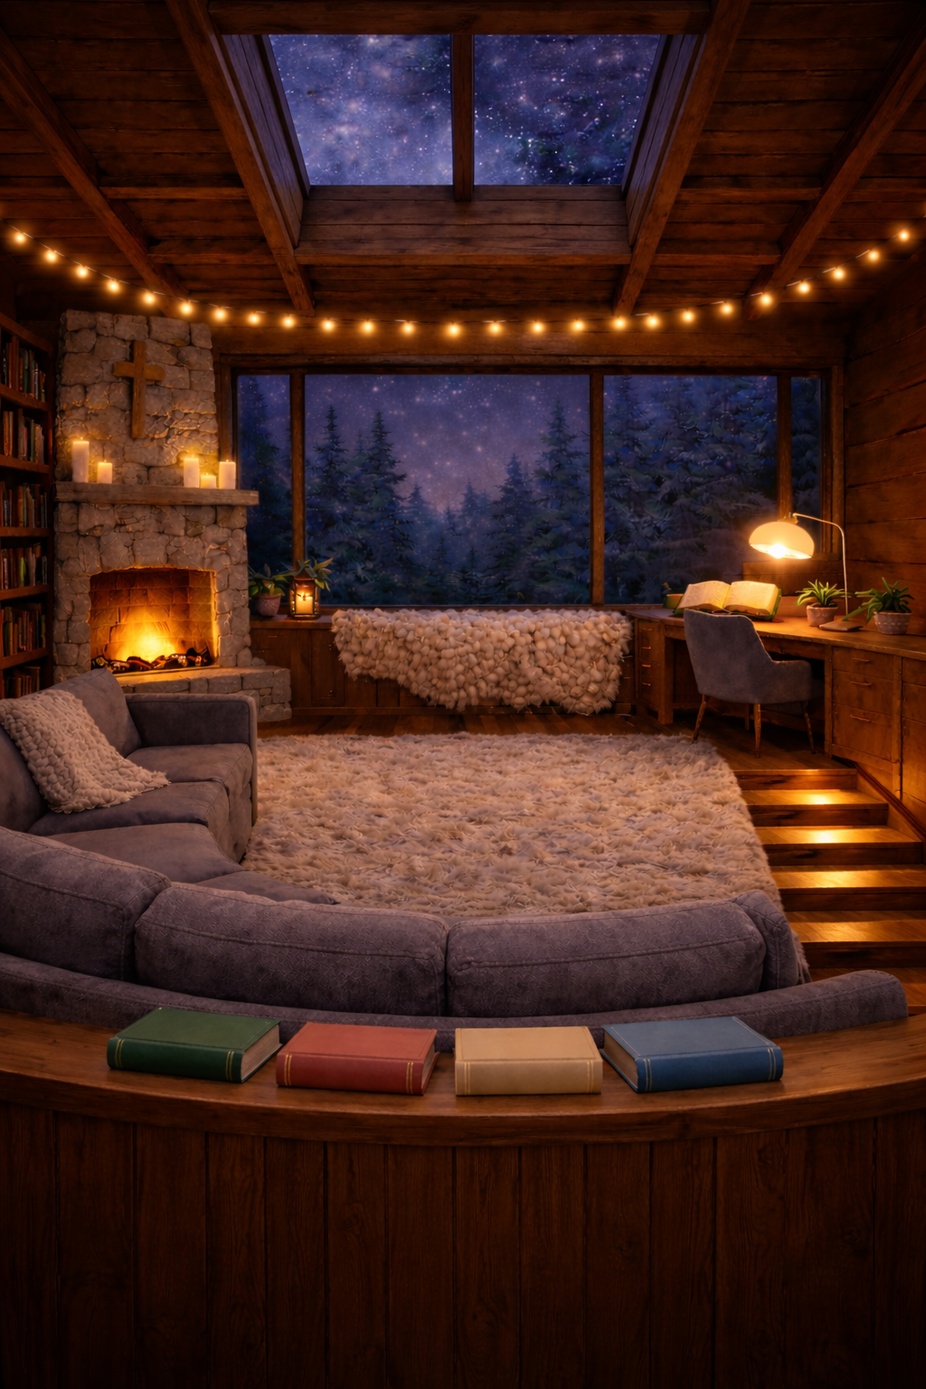
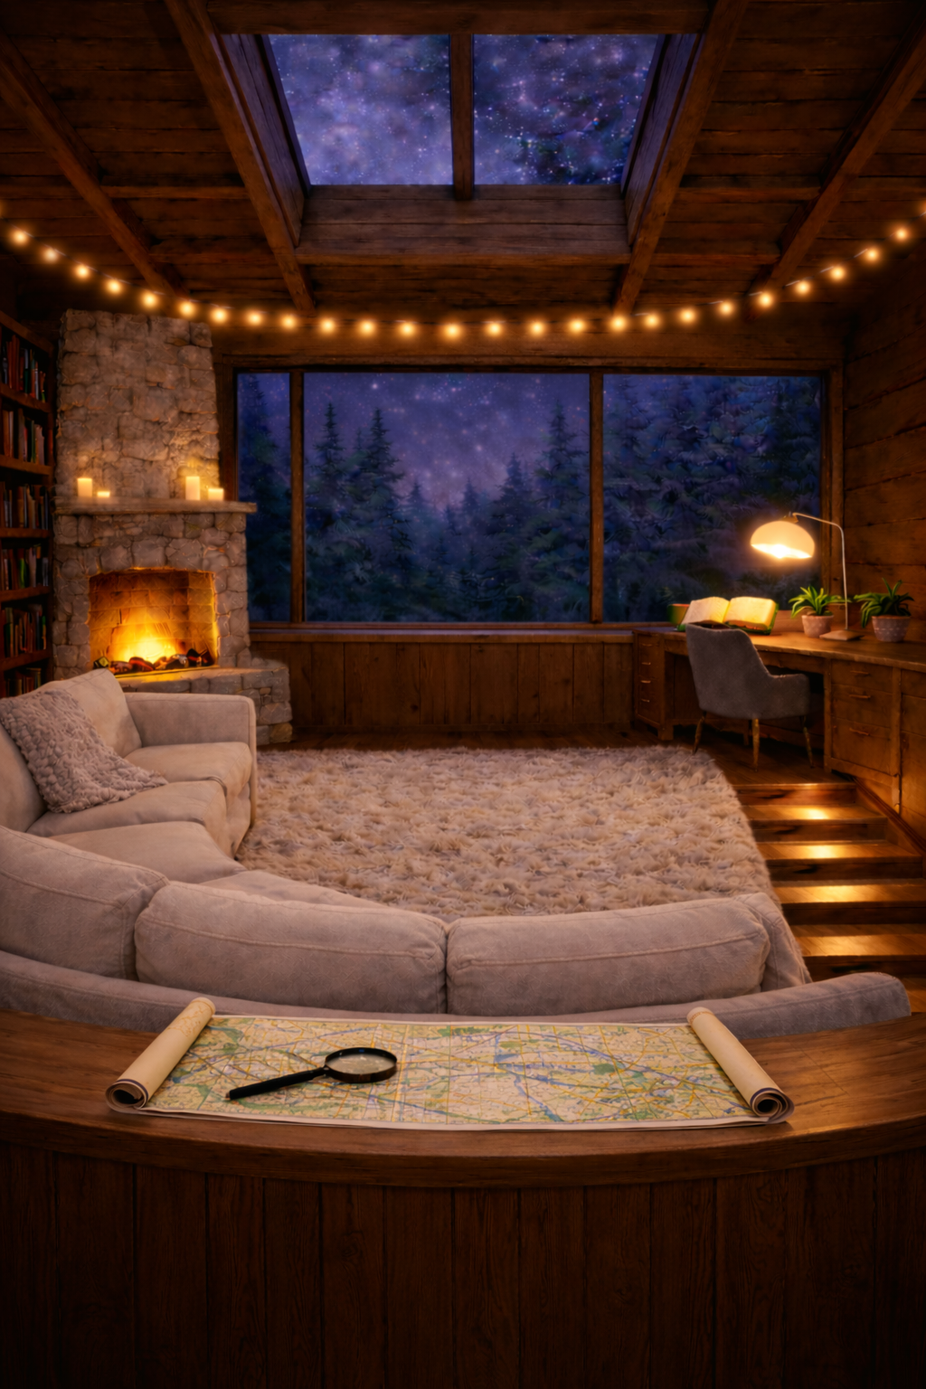
Remap cabin hotspots + magical glow + kitchen screen
- New cabin interior image with rolled map, stairs, open book on desk
- 3 main interactive hotspots with subtle enchanted glow:
  * Map on shelf (bottom-center) → world map screen
  * Stairs (right side) → new kitchen screen (downstairs)
  * Open book on desk (upper-right) → journal
- Added magicGlow + magicGlowOuter CSS keyframe animations
- Added transitionToKitchen() function
- Added kitchen placeholder screen ("Coming soon")
- Updated debug overlay to match new hotspot positions
- Bookshelf books repositioned to far-left column
- Window hotspots repositioned for new image layout

diff --git a/src/app.jsx b/src/app.jsx
@@ -661,8 +661,8 @@ function RoomGlow({id}){
 
 // Sunken cabin great room — stone fireplace with roaring fire LEFT, large picture window CENTER
 // with pine forest & starry sky, cathedral skylight TOP, string lights across ceiling beams,
-// wooden stairs going up on RIGHT, desk with lamp UPPER-RIGHT, sectional sofa CENTER-LOWER,
-// 6 colorful books on curved wooden ledge BOTTOM, bookshelf FAR-LEFT, candles on mantel & surfaces.
+// wooden stairs going DOWN on RIGHT, desk with open book & lamp UPPER-RIGHT, sectional sofa CENTER,
+// rolled paper map with magnifying glass on wooden shelf BOTTOM-CENTER, bookshelf FAR-LEFT, candles on mantel.
 const CABIN_FALLBACK_IMAGE="/cabin-interior.png";
 
 function ImmersiveCabin(){
@@ -1736,6 +1736,10 @@ export default function App(){
     setSpaceTransit(true); setTransitDir("toMap");
     setTimeout(()=>{setScreen("map");setSpaceTransit(false);setTransitDir(null);},700);
   }
+  function transitionToKitchen(){
+    setSpaceTransit(true); setTransitDir("toKitchen");
+    setTimeout(()=>{setScreen("kitchen");setSpaceTransit(false);setTransitDir(null);},700);
+  }
 
   // ── SCENE NAVIGATION ──
   const SCENES = [
@@ -2001,6 +2005,11 @@ export default function App(){
     @keyframes bookArcFromBottom{0%{opacity:1;transform:translate(0,0) scale(1)}30%{opacity:1;transform:translate(0,-60px) scale(1.25)}60%{opacity:0.9;transform:translate(-20px,-120px) scale(1.1)}100%{opacity:0;transform:translate(-30px,-160px) scale(0.75)}}
     @keyframes hotspotPulse{0%,100%{box-shadow:0 0 15px rgba(255,200,80,0.15),0 0 40px rgba(255,200,80,0.05)}50%{box-shadow:0 0 25px rgba(255,200,80,0.3),0 0 60px rgba(255,200,80,0.1)}}
     @keyframes doorLabelFade{0%,100%{opacity:0.5}50%{opacity:1}}
+    @keyframes magicGlow{0%,100%{box-shadow:0 0 12px rgba(255,210,120,0.12),0 0 30px rgba(255,200,100,0.06),inset 0 0 8px rgba(255,210,120,0.04)}50%{box-shadow:0 0 22px rgba(255,210,120,0.28),0 0 50px rgba(255,200,100,0.12),inset 0 0 14px rgba(255,210,120,0.08)}}
+    @keyframes magicGlowOuter{0%,100%{opacity:0.3;transform:scale(1)}50%{opacity:0.7;transform:scale(1.04)}}
+    .magic-hotspot{cursor:pointer;transition:all .3s ease}
+    .magic-hotspot:hover{box-shadow:0 0 30px rgba(255,210,120,0.35),0 0 60px rgba(255,200,100,0.15)!important}
+    .magic-hotspot:active{transform:scale(0.97)!important;box-shadow:0 0 15px rgba(255,210,120,0.2)!important}
     @keyframes shelfBookHover{0%,100%{transform:translateX(0)}50%{transform:translateX(-4px)}}
     @keyframes windowPanelSlide{from{transform:translateX(100%);opacity:0}to{transform:translateX(0);opacity:1}}
     @keyframes windowPanelSlideLeft{from{transform:translateX(-100%);opacity:0}to{transform:translateX(0);opacity:1}}
@@ -2211,63 +2220,45 @@ export default function App(){
 
       {/* ═══ INTERACTIVE HOTSPOTS ═══ */}
       {/* Positions mapped to cabin-interior.png: sunken great room — fireplace LEFT, window CENTER,
-          stairs RIGHT, desk UPPER-RIGHT, sofa CENTER, 6 books on curved ledge BOTTOM */}
+          stairs RIGHT, desk with open book UPPER-RIGHT, sectional sofa CENTER, rolled map on shelf BOTTOM-CENTER */}
+      {/* ─── HOW TO EDIT HOTSPOTS ───
+          Each hotspot is a <button> with absolute positioning (left/right/top/bottom as %).
+          To reposition: change the left/top/width/height percentages.
+          To change navigation: change the onClick function.
+          Glow class: "magic-hotspot" + animation:"magicGlow ..." for the enchanted look.
+          The outer <div> with magicGlowOuter adds the soft radial aura around each hotspot. ─── */}
 
-      {/* 1. BIBLE / JOURNAL — over the sofa / center cushion area */}
-      <button onClick={()=>{setBookOpen(true);setBookPage(0);setFlipDir(null);}} style={{position:"absolute",left:"22%",right:"22%",top:"54%",bottom:"14%",zIndex:10,background:"transparent",border:"none",cursor:"pointer",borderRadius:"12px",animation:"hotspotPulse 3s ease-in-out infinite"}}>
-        <div style={{position:"absolute",inset:"-10%",borderRadius:"50%",background:"radial-gradient(circle,rgba(255,200,80,0.08),transparent 70%)",pointerEvents:"none"}}/>
+      {/* 1. MAP ON SHELF — rolled paper map on the wooden shelf behind the sectional → world map */}
+      <button className="magic-hotspot" onClick={()=>transitionToMap()} style={{position:"absolute",left:"28%",top:"82%",width:"44%",height:"14%",zIndex:11,background:"transparent",border:"none",borderRadius:"10px",animation:"magicGlow 4s ease-in-out infinite"}}>
+        {/* Warm enchanted aura around the map */}
+        <div style={{position:"absolute",inset:"-18%",borderRadius:"50%",background:"radial-gradient(ellipse at center,rgba(255,210,120,0.10),rgba(255,200,100,0.03) 55%,transparent 80%)",pointerEvents:"none",animation:"magicGlowOuter 4s ease-in-out infinite"}}/>
       </button>
 
-      {/* 2. BOOKSHELF — 6 individual books on the curved wooden ledge at BOTTOM of image */}
-      {SHELF_BOOKS.map((book,i)=>{
-        const cv=BOOK_COVERS[book.id]||BOOK_COVERS.journal;
-        const isActive=deskBook===book.id;
-        // Positions for each book on the bottom curved ledge (left to right)
-        const bookPositions=[
-          {left:"15%",width:"11%"},  // book 1 — green
-          {left:"26.5%",width:"11%"},// book 2 — red/burgundy
-          {left:"38%",width:"10%"},  // book 3 — cream/olive
-          {left:"48.5%",width:"10%"},// book 4 — teal
-          {left:"59%",width:"11%"},  // book 5 — cream/white
-          {left:"70%",width:"11%"},  // book 6 — dark maroon
-        ];
-        const pos=bookPositions[i]||bookPositions[0];
-        return(
-          <button key={book.id} className="shelf-hotspot" onClick={()=>selectShelfBook(book.id)}
-            style={{position:"absolute",left:pos.left,width:pos.width,bottom:"1%",height:"13%",zIndex:11,background:"transparent",border:"none",cursor:"pointer",borderRadius:"4px",display:"flex",flexDirection:"column",alignItems:"center",justifyContent:"flex-end",padding:"0 0 2px",animation:isActive?"none":"shelfGlow 4s ease-in-out infinite",animationDelay:`${i*0.3}s`}}>
-            {/* Warm glow on active */}
-            {isActive&&<div style={{position:"absolute",inset:"-15%",borderRadius:"50%",background:`radial-gradient(circle,${cv.accent}25,transparent 65%)`,pointerEvents:"none"}}/>}
-            {/* Label at bottom */}
-            <div style={{background:"rgba(10,8,6,0.65)",backdropFilter:"blur(4px)",WebkitBackdropFilter:"blur(4px)",borderRadius:6,padding:"2px 5px",maxWidth:"100%",overflow:"hidden"}}>
-              <div style={{fontFamily:SERIF,fontStyle:"italic",fontSize:"clamp(0.38rem,0.95vw,0.52rem)",color:isActive?cv.accent:"rgba(245,230,200,0.65)",textAlign:"center",lineHeight:1.15,letterSpacing:"0.01em",textShadow:"0 1px 3px rgba(0,0,0,0.7)",whiteSpace:"nowrap",overflow:"hidden",textOverflow:"ellipsis"}}>{book.label}</div>
-            </div>
-          </button>
-        );
-      })}
+      {/* 2. STAIRS — wooden stairs on the RIGHT → downstairs kitchen */}
+      <button className="magic-hotspot" onClick={()=>transitionToKitchen()} style={{position:"absolute",right:"0%",top:"42%",width:"20%",height:"42%",zIndex:12,background:"transparent",border:"none",borderRadius:"8px",animation:"magicGlow 4.5s ease-in-out infinite",animationDelay:"0.6s"}}>
+        {/* Warm enchanted aura on the stairs */}
+        <div style={{position:"absolute",inset:"-12%",borderRadius:"12px",background:"radial-gradient(ellipse at center 65%,rgba(255,210,120,0.08),rgba(255,200,100,0.02) 60%,transparent 85%)",pointerEvents:"none",animation:"magicGlowOuter 4.5s ease-in-out infinite",animationDelay:"0.6s"}}/>
+      </button>
 
-      {/* 3. DOOR — over the wooden stairs on the RIGHT (step outside → world map) */}
-      <button onClick={()=>transitionToMap()} style={{position:"absolute",right:"1%",top:"32%",width:"22%",height:"38%",zIndex:12,background:"transparent",border:"none",cursor:"pointer",borderRadius:"8px",animation:"hotspotPulse 3.5s ease-in-out infinite"}}>
-        {/* Warm stair glow */}
-        <div style={{position:"absolute",inset:"-6%",borderRadius:"8px",background:"radial-gradient(ellipse at center 60%,rgba(255,190,100,0.06),transparent 65%)",pointerEvents:"none"}}/>
-        {/* Subtle door label */}
-        <div style={{position:"absolute",bottom:"10%",left:"50%",transform:"translateX(-50%)",display:"flex",alignItems:"center",gap:4,background:"rgba(10,8,6,0.55)",backdropFilter:"blur(6px)",WebkitBackdropFilter:"blur(6px)",borderRadius:12,padding:"5px 10px",animation:"doorLabelFade 5s ease-in-out infinite",pointerEvents:"none",whiteSpace:"nowrap"}}>
-          <span style={{fontFamily:SERIF,fontStyle:"italic",fontSize:"0.55rem",color:"rgba(255,248,232,0.55)",letterSpacing:"0.02em"}}>Step outside</span>
-        </div>
+      {/* 3. OPEN BOOK ON DESK — upper-right corner on the desk near lamp → journal */}
+      <button className="magic-hotspot" onClick={()=>{setBookOpen(true);setBookPage(0);setFlipDir(null);}} style={{position:"absolute",right:"6%",top:"20%",width:"18%",height:"16%",zIndex:11,background:"transparent",border:"none",borderRadius:"8px",animation:"magicGlow 3.8s ease-in-out infinite",animationDelay:"1.2s"}}>
+        {/* Warm enchanted aura on the open book */}
+        <div style={{position:"absolute",inset:"-20%",borderRadius:"50%",background:"radial-gradient(circle,rgba(255,210,120,0.10),rgba(255,200,100,0.03) 55%,transparent 80%)",pointerEvents:"none",animation:"magicGlowOuter 3.8s ease-in-out infinite",animationDelay:"1.2s"}}/>
       </button>
 
       {/* 4. LEFT WINDOW — left half of the large picture window (forest + starry sky) */}
-      <button className="window-hotspot" onClick={()=>setWindowPanel("left")} style={{position:"absolute",left:"18%",top:"12%",width:"25%",height:"36%",zIndex:10,background:"transparent",border:"none",cursor:"pointer",borderRadius:"8px"}}/>
+      <button className="window-hotspot" onClick={()=>setWindowPanel("left")} style={{position:"absolute",left:"18%",top:"6%",width:"25%",height:"32%",zIndex:10,background:"transparent",border:"none",cursor:"pointer",borderRadius:"8px"}}/>
 
       {/* 5. RIGHT WINDOW — right half of the large picture window */}
-      <button className="window-hotspot" onClick={()=>setWindowPanel("right")} style={{position:"absolute",left:"44%",top:"12%",width:"25%",height:"36%",zIndex:10,background:"transparent",border:"none",cursor:"pointer",borderRadius:"8px"}}/>
+      <button className="window-hotspot" onClick={()=>setWindowPanel("right")} style={{position:"absolute",left:"44%",top:"6%",width:"25%",height:"32%",zIndex:10,background:"transparent",border:"none",cursor:"pointer",borderRadius:"8px"}}/>
 
       {/* 6. CANDLE / STREAK — over the fireplace mantel candles (LEFT side) */}
-      <button onClick={tapCandle} style={{position:"absolute",left:"4%",top:"26%",width:"14%",height:"16%",zIndex:10,background:"transparent",border:"none",cursor:"pointer",borderRadius:"50%",animation:"candlePulse 3s ease-in-out infinite"}}>
+      <button onClick={tapCandle} style={{position:"absolute",left:"2%",top:"20%",width:"16%",height:"20%",zIndex:10,background:"transparent",border:"none",cursor:"pointer",borderRadius:"50%",animation:"candlePulse 3s ease-in-out infinite"}}>
         <div style={{position:"absolute",inset:"-20%",borderRadius:"50%",background:"radial-gradient(circle,rgba(255,200,80,0.06),transparent 65%)",pointerEvents:"none"}}/>
       </button>
 
       {/* 7. INSIGHTS — center area on the fluffy rug/carpet */}
-      <button onClick={()=>setShowInsights(true)} style={{position:"absolute",left:"35%",right:"35%",top:"66%",height:"10%",zIndex:10,background:"transparent",border:"none",cursor:"pointer",borderRadius:"8px"}}>
+      <button onClick={()=>setShowInsights(true)} style={{position:"absolute",left:"30%",right:"30%",top:"58%",height:"14%",zIndex:10,background:"transparent",border:"none",cursor:"pointer",borderRadius:"8px"}}>
         <div style={{position:"absolute",inset:"-10%",borderRadius:"50%",background:"radial-gradient(circle,rgba(255,200,80,0.04),transparent 60%)",pointerEvents:"none"}}/>
       </button>
 
@@ -2297,11 +2288,26 @@ export default function App(){
         <span style={{fontFamily:SERIF,fontStyle:"italic",fontSize:"0.68rem",color:"rgba(255,248,232,0.5)",letterSpacing:"0.02em"}}>History</span>
       </button>
 
-      {/* 10. SHOP HOTSPOT — desk area upper-right (near lamp) */}
-      <button onClick={()=>setScreen("shop")} style={{position:"absolute",right:"3%",top:"18%",width:"14%",height:"12%",zIndex:10,background:"transparent",border:"none",cursor:"pointer",borderRadius:"8px",animation:"hotspotPulse 3.2s ease-in-out infinite"}}>
-        <div style={{position:"absolute",inset:"-10%",borderRadius:"50%",background:"radial-gradient(circle,rgba(255,200,80,0.06),transparent 60%)",pointerEvents:"none"}}/>
-        <span style={{fontSize:"clamp(0.9rem,2.5vw,1.3rem)",filter:"drop-shadow(0 2px 6px rgba(0,0,0,0.5))"}}>🪵</span>
-      </button>
+      {/* 10. BOOKSHELF — far left behind fireplace → shelf books */}
+      {SHELF_BOOKS.map((book,i)=>{
+        const cv=BOOK_COVERS[book.id]||BOOK_COVERS.journal;
+        const isActive=deskBook===book.id;
+        const bookPositions=[
+          {left:"0%",bottom:"42%",width:"6%",height:"8%"},  // book 1
+          {left:"1%",bottom:"50%",width:"6%",height:"8%"},  // book 2
+          {left:"0%",bottom:"58%",width:"7%",height:"7%"},  // book 3
+          {left:"1%",bottom:"34%",width:"6%",height:"8%"},  // book 4
+          {left:"0%",bottom:"66%",width:"7%",height:"7%"},  // book 5
+          {left:"1%",bottom:"26%",width:"6%",height:"8%"},  // book 6
+        ];
+        const pos=bookPositions[i]||bookPositions[0];
+        return(
+          <button key={book.id} className="shelf-hotspot" onClick={()=>selectShelfBook(book.id)}
+            style={{position:"absolute",left:pos.left,bottom:pos.bottom,width:pos.width,height:pos.height,zIndex:11,background:"transparent",border:"none",cursor:"pointer",borderRadius:"4px",animation:isActive?"none":"shelfGlow 4s ease-in-out infinite",animationDelay:`${i*0.3}s`}}>
+            {isActive&&<div style={{position:"absolute",inset:"-15%",borderRadius:"50%",background:`radial-gradient(circle,${cv.accent}25,transparent 65%)`,pointerEvents:"none"}}/>}
+          </button>
+        );
+      })}
 
       {/* CANDLE BALANCE — persistent display (triple-tap = toggle debug hotspots) — always visible */}
       <div onClick={debugTripleTap} style={{position:"absolute",left:"3%",top:"4%",zIndex:12,background:"rgba(26,22,18,0.7)",backdropFilter:"blur(8px)",WebkitBackdropFilter:"blur(8px)",border:"1px solid rgba(212,180,100,0.15)",borderRadius:10,padding:"5px 12px",display:"flex",alignItems:"center",gap:6,animation:"fadeUp 1s 2s ease both",cursor:"default"}}>
@@ -2313,24 +2319,21 @@ export default function App(){
 
       {/* ═══ HOTSPOT DEBUG OVERLAY (2D only) ═══ */}
       {debugHotspots&&<>
-        {/* Toggle badge */}
-        <div style={{position:"fixed",top:8,left:"50%",transform:"translateX(-50%)",zIndex:999,background:"rgba(255,60,60,0.85)",color:"#fff",fontFamily:SANS,fontSize:"0.65rem",fontWeight:700,padding:"4px 14px",borderRadius:20,letterSpacing:"0.04em",pointerEvents:"none",backdropFilter:"blur(6px)",WebkitBackdropFilter:"blur(6px)",whiteSpace:"nowrap"}}>DEBUG HOTSPOTS ON — Ctrl+Shift+. or 3×tap 🕯</div>
-        {/* 1. Bible / Journal (sofa center) */}
-        <div style={{position:"absolute",left:"22%",right:"22%",top:"54%",bottom:"14%",zIndex:900,background:"rgba(255,100,100,0.25)",border:"2px solid rgba(255,100,100,0.7)",borderRadius:12,pointerEvents:"none",display:"flex",alignItems:"center",justifyContent:"center"}}><span style={{fontFamily:SANS,fontSize:"0.6rem",fontWeight:700,color:"#fff",background:"rgba(255,60,60,0.75)",padding:"2px 8px",borderRadius:8}}>BIBLE</span></div>
-        {/* 2. Books on ledge (bottom) */}
-        <div style={{position:"absolute",left:"15%",right:"19%",bottom:"1%",height:"13%",zIndex:900,background:"rgba(100,100,255,0.25)",border:"2px solid rgba(100,100,255,0.7)",borderRadius:4,pointerEvents:"none",display:"flex",alignItems:"center",justifyContent:"center"}}><span style={{fontFamily:SANS,fontSize:"0.5rem",fontWeight:700,color:"#fff",background:"rgba(60,60,255,0.75)",padding:"2px 6px",borderRadius:8}}>BOOKS</span></div>
-        {/* 3. Door / Stairs (right side) */}
-        <div style={{position:"absolute",right:"1%",top:"32%",width:"22%",height:"38%",zIndex:900,background:"rgba(100,255,100,0.25)",border:"2px solid rgba(100,255,100,0.7)",borderRadius:8,pointerEvents:"none",display:"flex",alignItems:"center",justifyContent:"center"}}><span style={{fontFamily:SANS,fontSize:"0.6rem",fontWeight:700,color:"#fff",background:"rgba(60,180,60,0.85)",padding:"2px 8px",borderRadius:8}}>STAIRS (z:12)</span></div>
+        <div style={{position:"fixed",top:8,left:"50%",transform:"translateX(-50%)",zIndex:999,background:"rgba(255,60,60,0.85)",color:"#fff",fontFamily:SANS,fontSize:"0.65rem",fontWeight:700,padding:"4px 14px",borderRadius:20,letterSpacing:"0.04em",pointerEvents:"none",backdropFilter:"blur(6px)",WebkitBackdropFilter:"blur(6px)",whiteSpace:"nowrap"}}>DEBUG HOTSPOTS ON</div>
+        {/* 1. Map on shelf */}
+        <div style={{position:"absolute",left:"28%",top:"82%",width:"44%",height:"14%",zIndex:900,background:"rgba(255,100,100,0.25)",border:"2px solid rgba(255,100,100,0.7)",borderRadius:10,pointerEvents:"none",display:"flex",alignItems:"center",justifyContent:"center"}}><span style={{fontFamily:SANS,fontSize:"0.5rem",fontWeight:700,color:"#fff",background:"rgba(255,60,60,0.75)",padding:"2px 6px",borderRadius:8}}>MAP → World Map</span></div>
+        {/* 2. Stairs */}
+        <div style={{position:"absolute",right:"0%",top:"42%",width:"20%",height:"42%",zIndex:900,background:"rgba(100,255,100,0.25)",border:"2px solid rgba(100,255,100,0.7)",borderRadius:8,pointerEvents:"none",display:"flex",alignItems:"center",justifyContent:"center"}}><span style={{fontFamily:SANS,fontSize:"0.5rem",fontWeight:700,color:"#fff",background:"rgba(60,180,60,0.85)",padding:"2px 6px",borderRadius:8}}>STAIRS → Kitchen</span></div>
+        {/* 3. Open book on desk */}
+        <div style={{position:"absolute",right:"6%",top:"20%",width:"18%",height:"16%",zIndex:900,background:"rgba(100,100,255,0.25)",border:"2px solid rgba(100,100,255,0.7)",borderRadius:8,pointerEvents:"none",display:"flex",alignItems:"center",justifyContent:"center"}}><span style={{fontFamily:SANS,fontSize:"0.5rem",fontWeight:700,color:"#fff",background:"rgba(60,60,255,0.75)",padding:"2px 6px",borderRadius:8}}>BOOK → Journal</span></div>
         {/* 4. Left Window */}
-        <div style={{position:"absolute",left:"18%",top:"12%",width:"25%",height:"36%",zIndex:900,background:"rgba(255,255,100,0.2)",border:"2px solid rgba(255,255,100,0.7)",borderRadius:8,pointerEvents:"none",display:"flex",alignItems:"center",justifyContent:"center"}}><span style={{fontFamily:SANS,fontSize:"0.5rem",fontWeight:700,color:"#fff",background:"rgba(180,180,0,0.85)",padding:"2px 6px",borderRadius:8}}>L-WIN</span></div>
+        <div style={{position:"absolute",left:"18%",top:"6%",width:"25%",height:"32%",zIndex:900,background:"rgba(255,255,100,0.2)",border:"2px solid rgba(255,255,100,0.7)",borderRadius:8,pointerEvents:"none",display:"flex",alignItems:"center",justifyContent:"center"}}><span style={{fontFamily:SANS,fontSize:"0.5rem",fontWeight:700,color:"#fff",background:"rgba(180,180,0,0.85)",padding:"2px 6px",borderRadius:8}}>L-WIN</span></div>
         {/* 5. Right Window */}
-        <div style={{position:"absolute",left:"44%",top:"12%",width:"25%",height:"36%",zIndex:900,background:"rgba(255,165,0,0.2)",border:"2px solid rgba(255,165,0,0.7)",borderRadius:8,pointerEvents:"none",display:"flex",alignItems:"center",justifyContent:"center"}}><span style={{fontFamily:SANS,fontSize:"0.5rem",fontWeight:700,color:"#fff",background:"rgba(200,120,0,0.85)",padding:"2px 6px",borderRadius:8}}>R-WIN</span></div>
-        {/* 6. Candle (fireplace mantel) */}
-        <div style={{position:"absolute",left:"4%",top:"26%",width:"14%",height:"16%",zIndex:900,background:"rgba(255,100,255,0.25)",border:"2px solid rgba(255,100,255,0.7)",borderRadius:"50%",pointerEvents:"none",display:"flex",alignItems:"center",justifyContent:"center"}}><span style={{fontFamily:SANS,fontSize:"0.5rem",fontWeight:700,color:"#fff",background:"rgba(200,60,200,0.85)",padding:"2px 6px",borderRadius:8}}>CANDLE</span></div>
-        {/* 7. Insights (rug center) */}
-        <div style={{position:"absolute",left:"35%",right:"35%",top:"66%",height:"10%",zIndex:900,background:"rgba(0,200,200,0.2)",border:"2px solid rgba(0,200,200,0.7)",borderRadius:8,pointerEvents:"none",display:"flex",alignItems:"center",justifyContent:"center"}}><span style={{fontFamily:SANS,fontSize:"0.5rem",fontWeight:700,color:"#fff",background:"rgba(0,150,150,0.85)",padding:"2px 6px",borderRadius:8}}>INSIGHTS</span></div>
-        {/* 10. Shop (desk upper-right) */}
-        <div style={{position:"absolute",right:"3%",top:"18%",width:"14%",height:"12%",zIndex:900,background:"rgba(200,150,50,0.25)",border:"2px solid rgba(200,150,50,0.7)",borderRadius:8,pointerEvents:"none",display:"flex",alignItems:"center",justifyContent:"center"}}><span style={{fontFamily:SANS,fontSize:"0.5rem",fontWeight:700,color:"#fff",background:"rgba(170,120,30,0.85)",padding:"2px 6px",borderRadius:8}}>SHOP</span></div>
+        <div style={{position:"absolute",left:"44%",top:"6%",width:"25%",height:"32%",zIndex:900,background:"rgba(255,165,0,0.2)",border:"2px solid rgba(255,165,0,0.7)",borderRadius:8,pointerEvents:"none",display:"flex",alignItems:"center",justifyContent:"center"}}><span style={{fontFamily:SANS,fontSize:"0.5rem",fontWeight:700,color:"#fff",background:"rgba(200,120,0,0.85)",padding:"2px 6px",borderRadius:8}}>R-WIN</span></div>
+        {/* 6. Candle (fireplace) */}
+        <div style={{position:"absolute",left:"2%",top:"20%",width:"16%",height:"20%",zIndex:900,background:"rgba(255,100,255,0.25)",border:"2px solid rgba(255,100,255,0.7)",borderRadius:"50%",pointerEvents:"none",display:"flex",alignItems:"center",justifyContent:"center"}}><span style={{fontFamily:SANS,fontSize:"0.5rem",fontWeight:700,color:"#fff",background:"rgba(200,60,200,0.85)",padding:"2px 6px",borderRadius:8}}>CANDLE</span></div>
+        {/* 7. Insights (rug) */}
+        <div style={{position:"absolute",left:"30%",right:"30%",top:"58%",height:"14%",zIndex:900,background:"rgba(0,200,200,0.2)",border:"2px solid rgba(0,200,200,0.7)",borderRadius:8,pointerEvents:"none",display:"flex",alignItems:"center",justifyContent:"center"}}><span style={{fontFamily:SANS,fontSize:"0.5rem",fontWeight:700,color:"#fff",background:"rgba(0,150,150,0.85)",padding:"2px 6px",borderRadius:8}}>INSIGHTS</span></div>
       </>}
 
       {/* ═══ STREAK FLOATING INDICATOR ═══ */}
@@ -3786,6 +3789,32 @@ export default function App(){
   }
 
   /* ══ MARKET — Placeholder ═══════════════════════ */
+  /* ══ KITCHEN — Placeholder (downstairs from cabin) ══════════════════ */
+  if(screen==="kitchen"){
+    return(
+      <div style={{position:"fixed",inset:0,overflow:"hidden",fontFamily:SANS,background:"linear-gradient(160deg,#1A1408,#221A0E)"}}>
+        <style>{GFONTS}{CSS}</style>
+        <div style={{position:"relative",zIndex:10,height:"100%",overflowY:"auto",WebkitOverflowScrolling:"touch"}}>
+          <div style={{maxWidth:720,margin:"0 auto",padding:"28px 22px 80px"}}>
+            <button onClick={()=>setScreen("cabin")} style={{background:"rgba(26,22,18,0.5)",backdropFilter:"blur(12px)",WebkitBackdropFilter:"blur(12px)",border:"1px solid rgba(201,169,110,0.15)",borderRadius:999,padding:"8px 20px",cursor:"pointer",color:"rgba(255,248,232,0.6)",fontFamily:SANS,fontSize:"0.78rem",marginBottom:28,transition:"all 0.2s",display:"inline-flex",alignItems:"center",gap:6}}>
+              Back upstairs
+            </button>
+            <div style={{textAlign:"center",marginBottom:32,animation:"fadeUp .6s ease both"}}>
+              <h1 style={{fontFamily:DISPLAY,fontSize:"2rem",fontWeight:700,color:B.goldL,margin:"0 0 8px",textShadow:"0 2px 12px rgba(0,0,0,0.5)"}}>The Kitchen</h1>
+              <p style={{fontFamily:SERIF,fontStyle:"italic",fontSize:"1rem",color:"rgba(255,248,232,0.45)",margin:"0 0 14px"}}>A warm hearth for nourishment and fellowship.</p>
+              <div style={{width:60,height:1,background:"rgba(201,169,110,0.3)",margin:"0 auto"}}/>
+            </div>
+            <div style={{background:"rgba(30,24,14,0.6)",border:"1px solid rgba(201,169,110,0.15)",borderRadius:16,padding:"40px 24px",textAlign:"center"}}>
+              <p style={{fontFamily:SERIF,fontStyle:"italic",color:"rgba(255,248,232,0.3)",fontSize:"0.9rem"}}>The kettle is warming on the stove...</p>
+              <p style={{fontFamily:SANS,fontSize:"0.72rem",color:"rgba(255,248,232,0.2)",marginTop:8}}>Coming soon</p>
+            </div>
+          </div>
+        </div>
+        {spaceTransit&&<div style={{position:"fixed",inset:0,zIndex:9999,background:"#0A0806",animation:"spaceFadeIn .6s ease both",pointerEvents:"all"}}/>}
+      </div>
+    );
+  }
+
   if(screen==="market"){
     return(
       <div style={{position:"fixed",inset:0,overflow:"hidden",fontFamily:SANS,background:"linear-gradient(160deg,#1A1408,#241E12)"}}>
